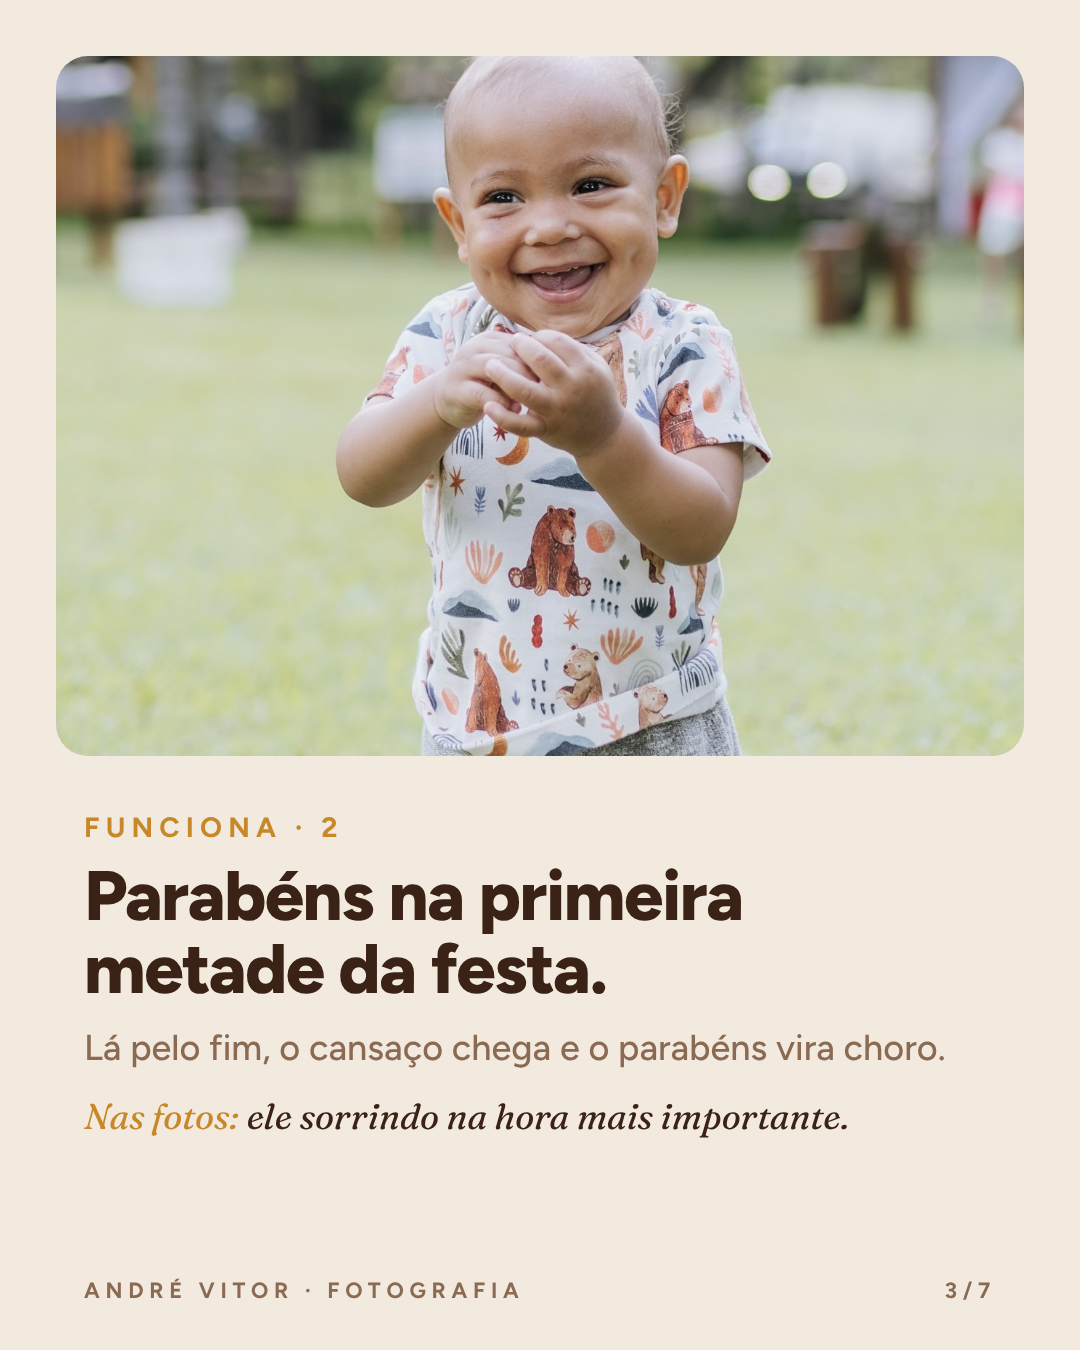
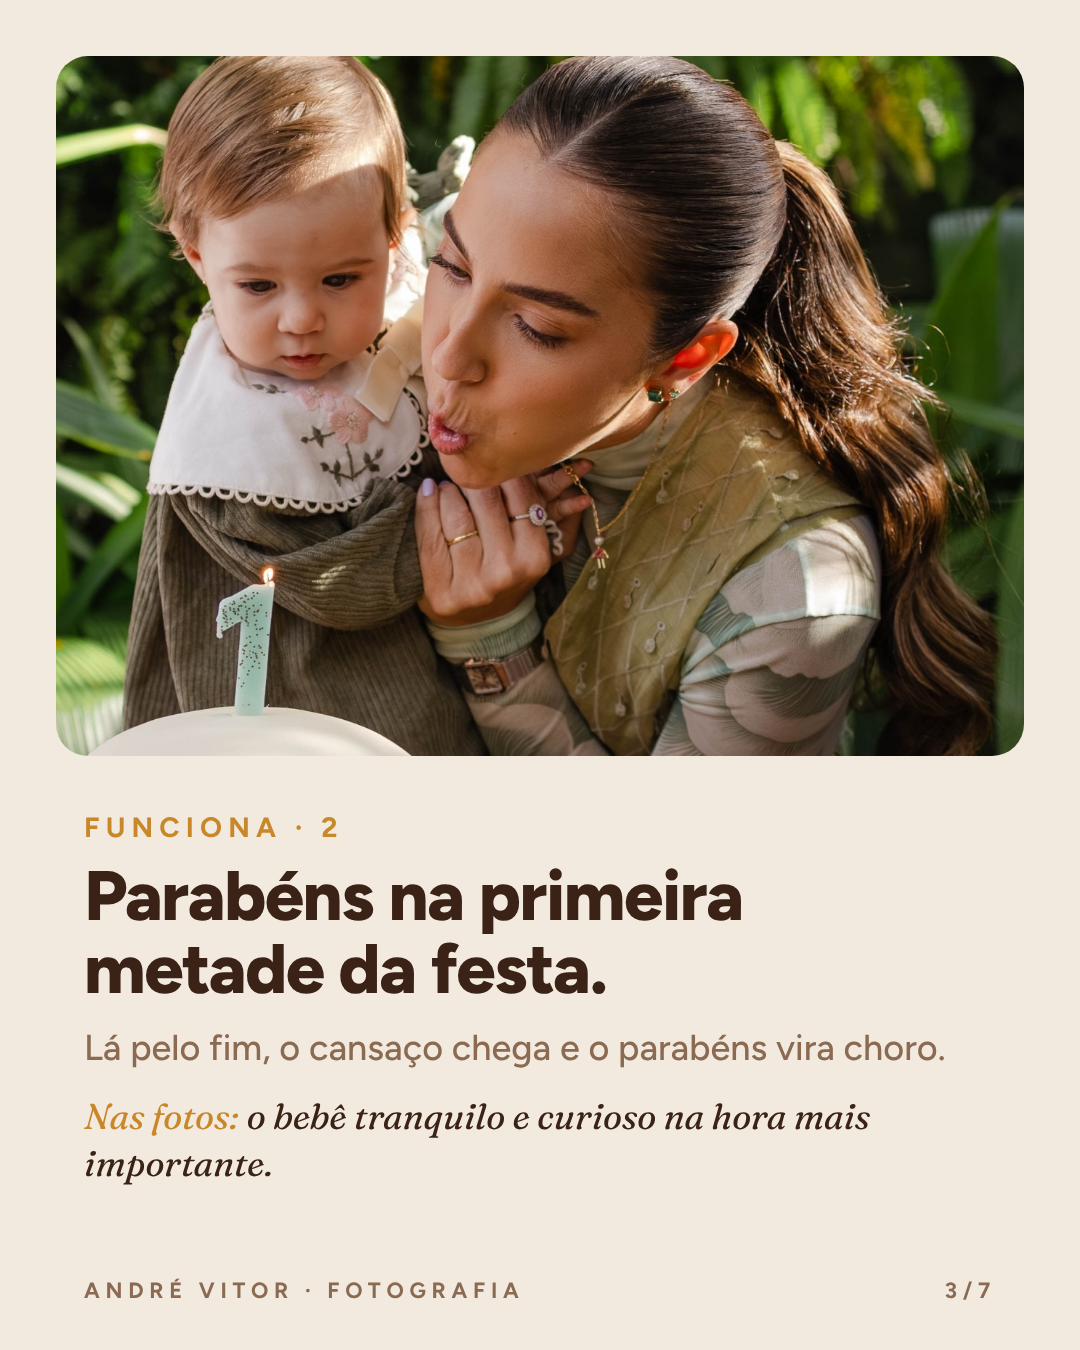
Carrossel 1 ano: foto real do parabéns, sem o nome da criança
Claude-Session: https://claude.ai/code/session_01V8X75n2knntE3NdxPFh2K8

diff --git a/carrossel-1ano/slides.html b/carrossel-1ano/slides.html
@@ -94,12 +94,12 @@
 
 <!-- 3 · PARABÉNS -->
 <section class="slide" id="s3">
-  <div class="foto"><img src="fotos/parabens-palminha.jpg" style="--pos:50% 28%" alt=""></div>
+  <div class="foto"><img src="fotos/parabens-vela.jpg" style="--pos:50% 40%" alt=""></div>
   <div class="texto">
     <p class="kicker">Funciona · 2</p>
     <h2 class="titulo">Parabéns na primeira metade da festa.</h2>
     <p class="sub">Lá pelo fim, o cansaço chega e o parabéns vira choro.</p>
-    <p class="nas-fotos"><span>Nas fotos:</span> ele sorrindo na hora mais importante.</p>
+    <p class="nas-fotos"><span>Nas fotos:</span> o bebê tranquilo e curioso na hora mais importante.</p>
   </div>
   <div class="rodape"><span>André Vitor · Fotografia</span><span>3/7</span></div>
 </section>
